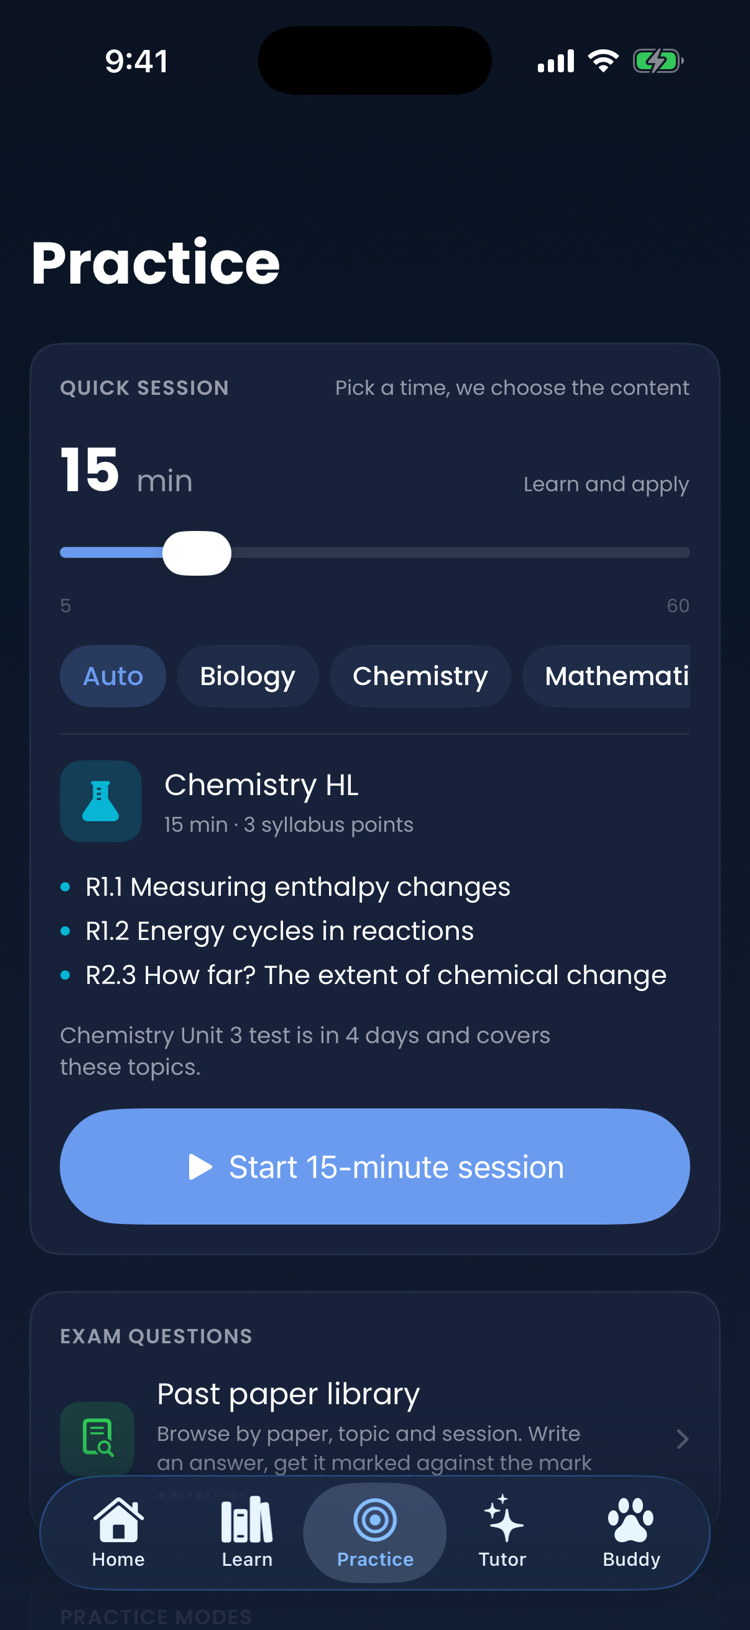
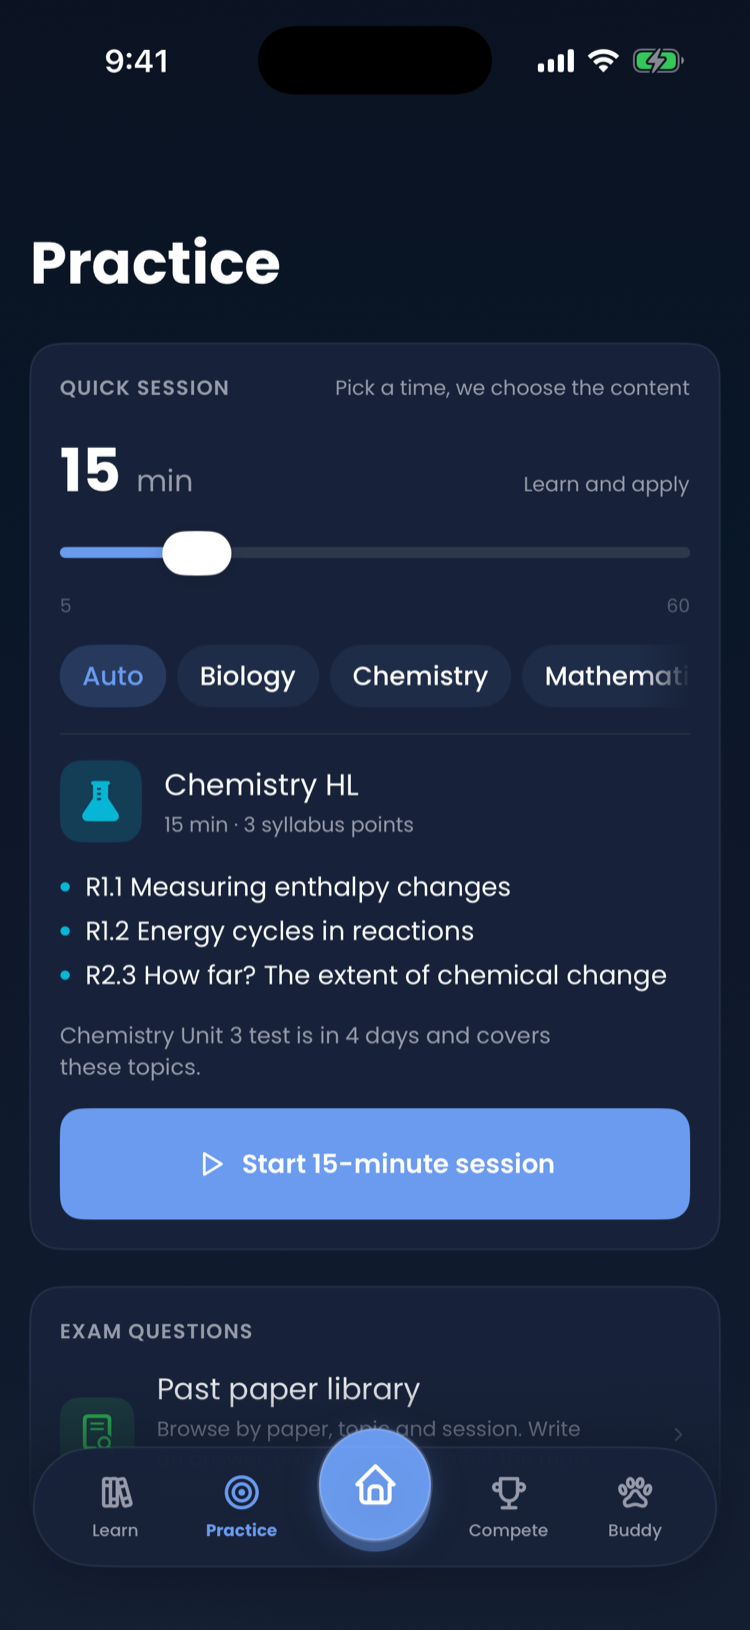
Add files via upload

diff --git a/index.html b/index.html
@@ -7,21 +7,21 @@
 <meta property="og:title" content="Syllabo"><meta property="og:description" content="The IB study app that fits the time you have."><meta property="og:image" content="img/icon-1024.png?v=2"><meta property="og:type" content="website">
 </head>
 <body>
-<header class="nav"><div class="wrap"><a class="brand" href="index.html"><img src="img/icon.png?v=2" alt="">Syllabo</a><nav class="links"><a href="index.html#product">Product</a><a href="index.html#how">How it works</a><a href="index.html#pricing">Pricing</a><a href="support.html">Support</a></nav><a class="btn btn-primary cta" href="index.html#download">Get the app</a></div></header>
+<header class="nav"><div class="wrap"><a class="brand" href="index.html"><img src="img/icon.png?v=2" alt="">Syllabo</a><nav class="links"><a href="index.html#product">Product</a><a href="index.html#compete">Compete</a><a href="index.html#how">How it works</a><a href="index.html#pricing">Pricing</a><a href="support.html">Support</a></nav><a class="btn btn-primary cta" href="https://apps.apple.com/app/syllabo/id6810865998">Get the app</a></div></header>
 
 <section class="hero">
   <div class="wrap grid">
     <div>
-      <span class="eyebrow"><b>New</b> A free AI tutor that stays on your question</span>
+      <span class="eyebrow"><b>New</b> Weekly leagues and duels with friends</span>
       <h1>The IB syllabus, one session at a time.</h1>
       <p class="lede">Tell Syllabo how many minutes you have. It builds a session from your weakest syllabus points, your open mistakes and the topics due for review, marks what you write, and moves on.</p>
       <div class="actions">
-        <a class="btn btn-primary" href="#download">Get the app</a>
+        <a class="btn btn-primary" href="https://apps.apple.com/app/syllabo/id6810865998">Get the app</a>
         <a class="btn btn-secondary" href="#product">See what is inside</a>
       </div>
       <p class="fine small">iPhone, iPad and Mac. Free, AI tutor included. No ads, no tracking.</p>
     </div>
-    <div class="phone"><img src="img/home.png?v=3" alt="Syllabo home screen in the navy theme, showing mastery, streak, exam countdown and a recommended session" width="750" height="1630"></div>
+    <div class="phone"><img src="img/home.png?v=4" alt="Syllabo home screen in the navy theme, showing the streak, daily rings, a recommended session and the exam countdown" width="750" height="1630"></div>
   </div>
 </section>
 
@@ -47,13 +47,13 @@
           <h3>Pick the minutes. The session picks itself.</h3>
           <p>Slide from 5 to 60 minutes. Syllabo sequences a warm-up, a lesson card, recall, application and an exam-format question, weighted towards what is weak and what is tested soon. Flashcards, MCQ, written questions, concept review, exam practice, or teach your buddy.</p>
         </div>
-        <div class="phone sm"><img src="img/practice.png?v=3" alt="Practice tab with duration slider and practice modes" width="750" height="1630"></div>
+        <div class="phone sm"><img src="img/practice.png?v=4" alt="Practice tab with duration slider and practice modes" width="750" height="1630"></div>
       </div>
       <div class="tile shot b-2">
         <span class="kicker">Learn</span>
         <h3>Search a concept, do questions on it.</h3>
         <p>Inside any subject, type "enthalpy" or "3.1" and go straight to the lesson, questions, MCQ or cards for that exact point.</p>
-        <div class="phone sm"><img src="img/learn.png?v=3" alt="Learn tab with subjects and mastery" width="750" height="1630"></div>
+        <div class="phone sm"><img src="img/learn.png?v=4" alt="Learn tab with subjects and mastery" width="750" height="1630"></div>
       </div>
       <div class="tile b-2">
         <span class="kicker">Marking</span>
@@ -69,8 +69,43 @@
       <div class="tile shot b-2">
         <span class="kicker">Buddy</span>
         <h3>A streak with a face.</h3>
-        <p>Answer questions, earn coins, open crates and collect skins for your buddy, including rare numbered colourways. Daily login rewards, a weekly leaderboard with friends, medals for the milestones.</p>
-        <div class="phone sm"><img src="img/buddy.png?v=3" alt="Buddy tab with a skin and its illustrated background" width="750" height="1630"></div>
+        <p>Your buddy reacts to every answer, cheers a streak and sulks when you skip a day. Dress it in any of 107 skins, each standing in its own illustrated scene, and teach it a topic to prove you understand it.</p>
+        <div class="phone sm"><img src="img/buddy.png?v=4" alt="Buddy tab with a skin and its illustrated background" width="750" height="1630"></div>
+      </div>
+    </div>
+  </div>
+</section>
+
+<section class="section" id="compete" style="padding-top:0">
+  <div class="wrap">
+    <div class="section-head">
+      <h2>Revision you actually want to open.</h2>
+      <p>Every question you answer earns XP and coins. They feed a weekly league, duels with friends, daily rings and a buddy you dress up. Nothing here can be bought with real money: the only way to win is to study.</p>
+    </div>
+    <div class="bento">
+      <div class="tile split b-4">
+        <div>
+          <span class="kicker">Leagues</span>
+          <h3>A new race every week.</h3>
+          <p>You are placed in a bracket of up to 30 students at your level. XP from every session counts, the top quarter climb a badge and the bottom few slip back. Sixteen badges run from Bronze up to Luminary. Or make your own league for your class or friends, share a six-letter code, and play for a weekly coin prize or a buy-in pot.</p>
+        </div>
+        <div class="phone sm"><img src="img/compete.png?v=4" alt="Compete tab showing a Gold League badge, the weekly podium and duels" width="750" height="1630"></div>
+      </div>
+      <div class="tile shot b-2">
+        <span class="kicker">Duels</span>
+        <h3>Same ten questions. Best score wins.</h3>
+        <p>Challenge a friend on any topic, pick multiple choice, short or long answers, put coins in the pot and switch hints off if you want a straight test. You both have 48 hours, and the winner takes the pot.</p>
+        <div class="phone sm"><img src="img/duels.png?v=4" alt="Duels page with a challenge button, win record and duels waiting on you" width="750" height="1630"></div>
+      </div>
+      <div class="tile b-2">
+        <span class="kicker">Daily rings</span>
+        <h3>Five minutes a subject.</h3>
+        <p>One ring per subject, closed by minutes studied or points practised. Close them all for coins and a crate, keep it up for a perfect week, and hold the flame to start today's session and keep your streak alive.</p>
+      </div>
+      <div class="tile b-2">
+        <span class="kicker">Crates and skins</span>
+        <h3>107 skins to collect.</h3>
+        <p>Coins open crates, crates drop skins for your buddy, from common to legendary, each with its own scene and eight poses. Rare colourways are numbered, so your Gold #7 of 10 is the only one. A daily drop, daily login rewards and medals for the milestones.</p>
       </div>
     </div>
   </div>
@@ -106,8 +141,12 @@
       <div class="check"><svg viewBox="0 0 20 20" fill="none" stroke="currentColor" stroke-width="2" stroke-linecap="round" stroke-linejoin="round"><path d="M4 10.5l4 4 8-9"/></svg><span><b>Essay workshop</b>On iPad and Mac: plan, write and get marked against subject rubrics.</span></div>
       <div class="check"><svg viewBox="0 0 20 20" fill="none" stroke="currentColor" stroke-width="2" stroke-linecap="round" stroke-linejoin="round"><path d="M4 10.5l4 4 8-9"/></svg><span><b>Exam countdown</b>Tests with their topics; the app prompts you to revise the least practised one.</span></div>
       <div class="check"><svg viewBox="0 0 20 20" fill="none" stroke="currentColor" stroke-width="2" stroke-linecap="round" stroke-linejoin="round"><path d="M4 10.5l4 4 8-9"/></svg><span><b>Teach the buddy</b>Explain a concept out loud; the learner persona asks the questions a confused student would.</span></div>
-      <div class="check"><svg viewBox="0 0 20 20" fill="none" stroke="currentColor" stroke-width="2" stroke-linecap="round" stroke-linejoin="round"><path d="M4 10.5l4 4 8-9"/></svg><span><b>Friends and leaderboard</b>Add by username. Hide activity, mastery or streak whenever you like.</span></div>
-      <div class="check"><svg viewBox="0 0 20 20" fill="none" stroke="currentColor" stroke-width="2" stroke-linecap="round" stroke-linejoin="round"><path d="M4 10.5l4 4 8-9"/></svg><span><b>Navy, dark and light themes</b>Five typefaces, and text size is yours too.</span></div>
+      <div class="check"><svg viewBox="0 0 20 20" fill="none" stroke="currentColor" stroke-width="2" stroke-linecap="round" stroke-linejoin="round"><path d="M4 10.5l4 4 8-9"/></svg><span><b>Weekly leagues</b>Brackets of 30, sixteen badges from Bronze to Luminary, and private leagues for your class.</span></div>
+      <div class="check"><svg viewBox="0 0 20 20" fill="none" stroke="currentColor" stroke-width="2" stroke-linecap="round" stroke-linejoin="round"><path d="M4 10.5l4 4 8-9"/></svg><span><b>Duels</b>Challenge a friend to the same ten questions, with coins in the pot.</span></div>
+      <div class="check"><svg viewBox="0 0 20 20" fill="none" stroke="currentColor" stroke-width="2" stroke-linecap="round" stroke-linejoin="round"><path d="M4 10.5l4 4 8-9"/></svg><span><b>Daily rings and streaks</b>A ring per subject, a perfect-week bonus and a flame to keep alive.</span></div>
+      <div class="check"><svg viewBox="0 0 20 20" fill="none" stroke="currentColor" stroke-width="2" stroke-linecap="round" stroke-linejoin="round"><path d="M4 10.5l4 4 8-9"/></svg><span><b>Crates and 107 skins</b>Earned with study coins only. Numbered rare colourways.</span></div>
+      <div class="check"><svg viewBox="0 0 20 20" fill="none" stroke="currentColor" stroke-width="2" stroke-linecap="round" stroke-linejoin="round"><path d="M4 10.5l4 4 8-9"/></svg><span><b>Friends</b>Add by username. Hide activity, mastery or streak whenever you like.</span></div>
+      <div class="check"><svg viewBox="0 0 20 20" fill="none" stroke="currentColor" stroke-width="2" stroke-linecap="round" stroke-linejoin="round"><path d="M4 10.5l4 4 8-9"/></svg><span><b>Navy, dark and light themes</b>Text size is yours too.</span></div>
       <div class="check"><svg viewBox="0 0 20 20" fill="none" stroke="currentColor" stroke-width="2" stroke-linecap="round" stroke-linejoin="round"><path d="M4 10.5l4 4 8-9"/></svg><span><b>Glossary of 1,000+ terms</b>Real definitions behind every recall question.</span></div>
       <div class="check"><svg viewBox="0 0 20 20" fill="none" stroke="currentColor" stroke-width="2" stroke-linecap="round" stroke-linejoin="round"><path d="M4 10.5l4 4 8-9"/></svg><span><b>iPhone, iPad, Mac</b>One app, sidebar layout on wide screens.</span></div>
     </div>
@@ -131,7 +170,7 @@
           <li>Buddy, skins and crates, daily rewards, streaks, friends, themes</li>
           <li>No ads. No tracking.</li>
         </ul>
-        <a class="btn btn-primary" href="#download" style="align-self:flex-start">Get the app</a>
+        <a class="btn btn-primary" href="https://apps.apple.com/app/syllabo/id6810865998" style="align-self:flex-start">Get the app</a>
       </div>
       <div class="plan soon">
         <span class="badge">Coming soon</span>
@@ -164,11 +203,11 @@
 <section class="wrap" id="download">
   <div class="final">
     <h2>Study the syllabus, not the panic.</h2>
-    <p>Syllabo is coming to the App Store for iPhone, iPad and Mac. Until then, email to join the TestFlight.</p>
-    <a class="btn btn-primary" href="mailto:syllabosupport@gmail.com?subject=Syllabo%20TestFlight">Request TestFlight access</a>
+    <p>Syllabo is free on the App Store for iPhone, iPad and Mac.</p>
+    <a class="btn btn-primary" href="https://apps.apple.com/app/syllabo/id6810865998">Download on the App Store</a>
   </div>
 </section>
 
-<footer><div class="wrap"><div class="cols"><div><a class="brand" href="index.html"><img src="img/icon.png?v=2" alt="">Syllabo</a><p class="small" style="margin-top:12px;max-width:34ch">A personal study app for the IB Diploma. Built in Singapore for the minutes between everything else.</p></div><div><h4>Product</h4><ul><li><a href="index.html#product">Features</a></li><li><a href="index.html#how">How it works</a></li><li><a href="index.html#pricing">Pricing</a></li><li><a href="index.html#faq">FAQ</a></li></ul></div><div><h4>Legal</h4><ul><li><a href="privacy.html">Privacy policy</a></li><li><a href="terms.html">Terms of use</a></li></ul></div><div><h4>Contact</h4><ul><li><a href="support.html">Support</a></li><li><a href="mailto:syllabosupport@gmail.com">syllabosupport@gmail.com</a></li></ul></div></div><div class="bottom"><span>&copy; 2026 Tyler Cho. All rights reserved.</span><span>Not affiliated with or endorsed by the International Baccalaureate Organization.</span></div></div></footer>
+<footer><div class="wrap"><div class="cols"><div><a class="brand" href="index.html"><img src="img/icon.png?v=2" alt="">Syllabo</a><p class="small" style="margin-top:12px;max-width:34ch">A personal study app for the IB Diploma. Built in Singapore for the minutes between everything else.</p></div><div><h4>Product</h4><ul><li><a href="index.html#product">Features</a></li><li><a href="index.html#compete">Leagues and duels</a></li><li><a href="index.html#how">How it works</a></li><li><a href="index.html#pricing">Pricing</a></li><li><a href="index.html#faq">FAQ</a></li></ul></div><div><h4>Legal</h4><ul><li><a href="privacy.html">Privacy policy</a></li><li><a href="terms.html">Terms of use</a></li></ul></div><div><h4>Contact</h4><ul><li><a href="support.html">Support</a></li><li><a href="mailto:syllabosupport@gmail.com">syllabosupport@gmail.com</a></li></ul></div></div><div class="bottom"><span>&copy; 2026 Tyler Cho. All rights reserved.</span><span>Not affiliated with or endorsed by the International Baccalaureate Organization.</span></div></div></footer>
 </body>
 </html>

diff --git a/support.html b/support.html
@@ -6,7 +6,7 @@
 <meta name="description" content="Help with Syllabo: the AI tutor, past papers, accounts and friends.">
 </head>
 <body>
-<header class="nav"><div class="wrap"><a class="brand" href="index.html"><img src="img/icon.png?v=2" alt="">Syllabo</a><nav class="links"><a href="index.html#product">Product</a><a href="index.html#how">How it works</a><a href="index.html#pricing">Pricing</a><a href="support.html">Support</a></nav><a class="btn btn-primary cta" href="index.html#download">Get the app</a></div></header>
+<header class="nav"><div class="wrap"><a class="brand" href="index.html"><img src="img/icon.png?v=2" alt="">Syllabo</a><nav class="links"><a href="index.html#product">Product</a><a href="index.html#compete">Compete</a><a href="index.html#how">How it works</a><a href="index.html#pricing">Pricing</a><a href="support.html">Support</a></nav><a class="btn btn-primary cta" href="https://apps.apple.com/app/syllabo/id6810865998">Get the app</a></div></header>
 <main class="doc">
   <h1>Support</h1>
   <p class="updated">Answers to the questions that come up most. Anything else: <a href="mailto:syllabosupport@gmail.com">syllabosupport@gmail.com</a>. Replies usually within two days.</p>
@@ -28,6 +28,6 @@
   <h2>Mac and iPad</h2>
   <details><summary>Does it run on Mac?</summary><p>Yes, as a Mac app. Everything, including the essay workshop, is available on Mac.</p></details>
 </main>
-<footer><div class="wrap"><div class="cols"><div><a class="brand" href="index.html"><img src="img/icon.png?v=2" alt="">Syllabo</a><p class="small" style="margin-top:12px;max-width:34ch">A personal study app for the IB Diploma. Built in Singapore for the minutes between everything else.</p></div><div><h4>Product</h4><ul><li><a href="index.html#product">Features</a></li><li><a href="index.html#how">How it works</a></li><li><a href="index.html#pricing">Pricing</a></li><li><a href="index.html#faq">FAQ</a></li></ul></div><div><h4>Legal</h4><ul><li><a href="privacy.html">Privacy policy</a></li><li><a href="terms.html">Terms of use</a></li></ul></div><div><h4>Contact</h4><ul><li><a href="support.html">Support</a></li><li><a href="mailto:syllabosupport@gmail.com">syllabosupport@gmail.com</a></li></ul></div></div><div class="bottom"><span>&copy; 2026 Tyler Cho. All rights reserved.</span><span>Not affiliated with or endorsed by the International Baccalaureate Organization.</span></div></div></footer>
+<footer><div class="wrap"><div class="cols"><div><a class="brand" href="index.html"><img src="img/icon.png?v=2" alt="">Syllabo</a><p class="small" style="margin-top:12px;max-width:34ch">A personal study app for the IB Diploma. Built in Singapore for the minutes between everything else.</p></div><div><h4>Product</h4><ul><li><a href="index.html#product">Features</a></li><li><a href="index.html#compete">Leagues and duels</a></li><li><a href="index.html#how">How it works</a></li><li><a href="index.html#pricing">Pricing</a></li><li><a href="index.html#faq">FAQ</a></li></ul></div><div><h4>Legal</h4><ul><li><a href="privacy.html">Privacy policy</a></li><li><a href="terms.html">Terms of use</a></li></ul></div><div><h4>Contact</h4><ul><li><a href="support.html">Support</a></li><li><a href="mailto:syllabosupport@gmail.com">syllabosupport@gmail.com</a></li></ul></div></div><div class="bottom"><span>&copy; 2026 Tyler Cho. All rights reserved.</span><span>Not affiliated with or endorsed by the International Baccalaureate Organization.</span></div></div></footer>
 </body>
 </html>

diff --git a/privacy.html b/privacy.html
@@ -6,7 +6,7 @@
 <meta name="description" content="How Syllabo handles your data: everything stays on your device; nothing is sent anywhere unless you use online accounts or AI.">
 </head>
 <body>
-<header class="nav"><div class="wrap"><a class="brand" href="index.html"><img src="img/icon.png?v=2" alt="">Syllabo</a><nav class="links"><a href="index.html#product">Product</a><a href="index.html#how">How it works</a><a href="index.html#pricing">Pricing</a><a href="support.html">Support</a></nav><a class="btn btn-primary cta" href="index.html#download">Get the app</a></div></header>
+<header class="nav"><div class="wrap"><a class="brand" href="index.html"><img src="img/icon.png?v=2" alt="">Syllabo</a><nav class="links"><a href="index.html#product">Product</a><a href="index.html#compete">Compete</a><a href="index.html#how">How it works</a><a href="index.html#pricing">Pricing</a><a href="support.html">Support</a></nav><a class="btn btn-primary cta" href="https://apps.apple.com/app/syllabo/id6810865998">Get the app</a></div></header>
 <main class="doc">
   <h1>Privacy policy</h1>
   <p class="updated">Last updated 13 September 2026</p>
@@ -58,6 +58,6 @@
   <h2>Changes and contact</h2>
   <p>Updates to this policy appear on this page with a new date. Questions: <a href="mailto:syllabosupport@gmail.com">syllabosupport@gmail.com</a>.</p>
 </main>
-<footer><div class="wrap"><div class="cols"><div><a class="brand" href="index.html"><img src="img/icon.png?v=2" alt="">Syllabo</a><p class="small" style="margin-top:12px;max-width:34ch">A personal study app for the IB Diploma. Built in Singapore for the minutes between everything else.</p></div><div><h4>Product</h4><ul><li><a href="index.html#product">Features</a></li><li><a href="index.html#how">How it works</a></li><li><a href="index.html#pricing">Pricing</a></li><li><a href="index.html#faq">FAQ</a></li></ul></div><div><h4>Legal</h4><ul><li><a href="privacy.html">Privacy policy</a></li><li><a href="terms.html">Terms of use</a></li></ul></div><div><h4>Contact</h4><ul><li><a href="support.html">Support</a></li><li><a href="mailto:syllabosupport@gmail.com">syllabosupport@gmail.com</a></li></ul></div></div><div class="bottom"><span>&copy; 2026 Tyler Cho. All rights reserved.</span><span>Not affiliated with or endorsed by the International Baccalaureate Organization.</span></div></div></footer>
+<footer><div class="wrap"><div class="cols"><div><a class="brand" href="index.html"><img src="img/icon.png?v=2" alt="">Syllabo</a><p class="small" style="margin-top:12px;max-width:34ch">A personal study app for the IB Diploma. Built in Singapore for the minutes between everything else.</p></div><div><h4>Product</h4><ul><li><a href="index.html#product">Features</a></li><li><a href="index.html#compete">Leagues and duels</a></li><li><a href="index.html#how">How it works</a></li><li><a href="index.html#pricing">Pricing</a></li><li><a href="index.html#faq">FAQ</a></li></ul></div><div><h4>Legal</h4><ul><li><a href="privacy.html">Privacy policy</a></li><li><a href="terms.html">Terms of use</a></li></ul></div><div><h4>Contact</h4><ul><li><a href="support.html">Support</a></li><li><a href="mailto:syllabosupport@gmail.com">syllabosupport@gmail.com</a></li></ul></div></div><div class="bottom"><span>&copy; 2026 Tyler Cho. All rights reserved.</span><span>Not affiliated with or endorsed by the International Baccalaureate Organization.</span></div></div></footer>
 </body>
 </html>

diff --git a/terms.html b/terms.html
@@ -6,7 +6,7 @@
 <meta name="description" content="The terms that apply when you use Syllabo.">
 </head>
 <body>
-<header class="nav"><div class="wrap"><a class="brand" href="index.html"><img src="img/icon.png?v=2" alt="">Syllabo</a><nav class="links"><a href="index.html#product">Product</a><a href="index.html#how">How it works</a><a href="index.html#pricing">Pricing</a><a href="support.html">Support</a></nav><a class="btn btn-primary cta" href="index.html#download">Get the app</a></div></header>
+<header class="nav"><div class="wrap"><a class="brand" href="index.html"><img src="img/icon.png?v=2" alt="">Syllabo</a><nav class="links"><a href="index.html#product">Product</a><a href="index.html#compete">Compete</a><a href="index.html#how">How it works</a><a href="index.html#pricing">Pricing</a><a href="support.html">Support</a></nav><a class="btn btn-primary cta" href="https://apps.apple.com/app/syllabo/id6810865998">Get the app</a></div></header>
 <main class="doc">
   <h1>Terms of use</h1>
   <p class="updated">Last updated 11 September 2026</p>
@@ -42,6 +42,6 @@
   <h2>Contact</h2>
   <p><a href="mailto:syllabosupport@gmail.com">syllabosupport@gmail.com</a></p>
 </main>
-<footer><div class="wrap"><div class="cols"><div><a class="brand" href="index.html"><img src="img/icon.png?v=2" alt="">Syllabo</a><p class="small" style="margin-top:12px;max-width:34ch">A personal study app for the IB Diploma. Built in Singapore for the minutes between everything else.</p></div><div><h4>Product</h4><ul><li><a href="index.html#product">Features</a></li><li><a href="index.html#how">How it works</a></li><li><a href="index.html#pricing">Pricing</a></li><li><a href="index.html#faq">FAQ</a></li></ul></div><div><h4>Legal</h4><ul><li><a href="privacy.html">Privacy policy</a></li><li><a href="terms.html">Terms of use</a></li></ul></div><div><h4>Contact</h4><ul><li><a href="support.html">Support</a></li><li><a href="mailto:syllabosupport@gmail.com">syllabosupport@gmail.com</a></li></ul></div></div><div class="bottom"><span>&copy; 2026 Tyler Cho. All rights reserved.</span><span>Not affiliated with or endorsed by the International Baccalaureate Organization.</span></div></div></footer>
+<footer><div class="wrap"><div class="cols"><div><a class="brand" href="index.html"><img src="img/icon.png?v=2" alt="">Syllabo</a><p class="small" style="margin-top:12px;max-width:34ch">A personal study app for the IB Diploma. Built in Singapore for the minutes between everything else.</p></div><div><h4>Product</h4><ul><li><a href="index.html#product">Features</a></li><li><a href="index.html#compete">Leagues and duels</a></li><li><a href="index.html#how">How it works</a></li><li><a href="index.html#pricing">Pricing</a></li><li><a href="index.html#faq">FAQ</a></li></ul></div><div><h4>Legal</h4><ul><li><a href="privacy.html">Privacy policy</a></li><li><a href="terms.html">Terms of use</a></li></ul></div><div><h4>Contact</h4><ul><li><a href="support.html">Support</a></li><li><a href="mailto:syllabosupport@gmail.com">syllabosupport@gmail.com</a></li></ul></div></div><div class="bottom"><span>&copy; 2026 Tyler Cho. All rights reserved.</span><span>Not affiliated with or endorsed by the International Baccalaureate Organization.</span></div></div></footer>
 </body>
 </html>
